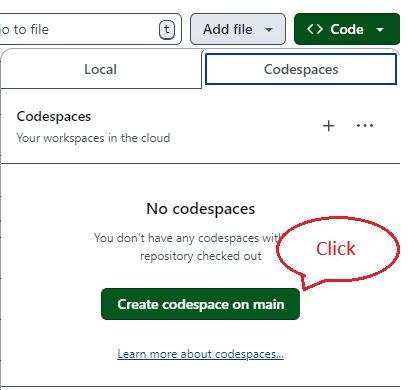
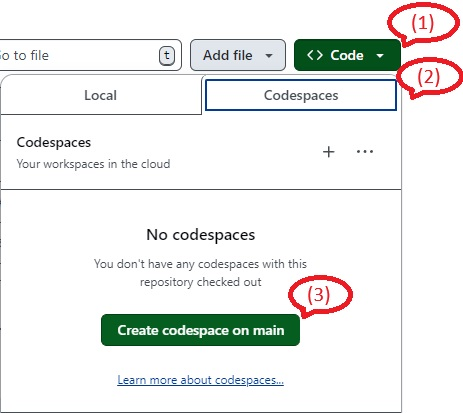
add end image

diff --git a/design-document/開始終了手順.md b/design-document/開始終了手順.md
@@ -1,0 +1,47 @@
+
+
+## CodeSpace開始手順
+
+GitHubのリポジトリを選択後に以下の画像右上から  
+（１）「 <> Code ▼」をClickします。   
+（２）「Codespaces」をClickします。    
+（３）「Create codespace on main」をClickします。  
+ブラウザのタブが１つ追加されCodeSpaceが起動します。
+
+![開始手順](./image/codespaces-start.jpg "開始手順")
+
+<br>
+<br>
+<br>
+<br>
+
+
+## CodeSpaces終了手順
+
+GitHubのリポジトリ表示を更新（ブラウザのリロードまたはF5キー押下）してください。  
+
+開始手順の(1)と(2)と同じ操作を行います。  
+  
+以下の例では「laughing-space-adventure」という名前(URLで確認)で  
+Codespacesが起動されている状態をあらわします。  
+(この名前はCodespacesが起動されているタブのURLにて確認できます。)  
+その横にある「・・・」(3点リーダー)をClickします。
+  
+
+![終了手順1](./image/codespaces-end1.jpg "終了手順1")
+<br>
+<br>
+<br>
+
+Clickすると以下のメニューが表示されます。  
+一番下にある「Delete」をClickします。  
+
+![終了手順2](./image/codespaces-end2.jpg "終了手順2")
+<br>
+<br>
+<br>
+
+Clickすると確認のダイアログが表示されます。  
+「Delete」をClickします。  
+
+![終了手順3](./image/codespaces-end3.jpg "終了手順3")
